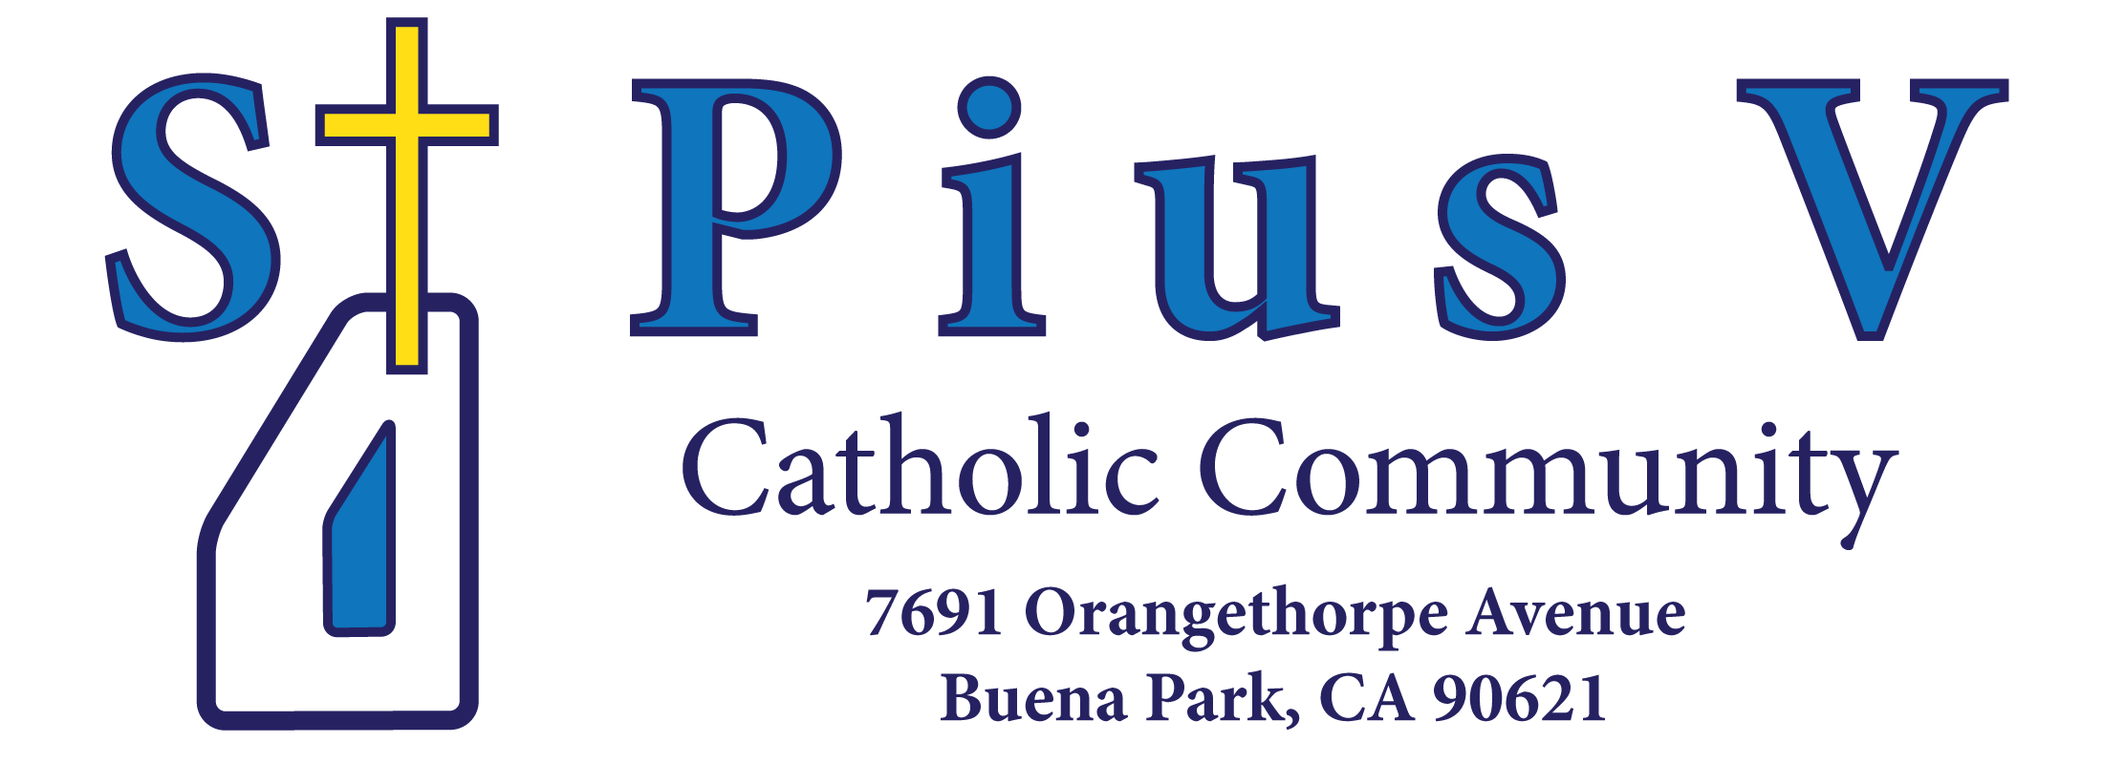
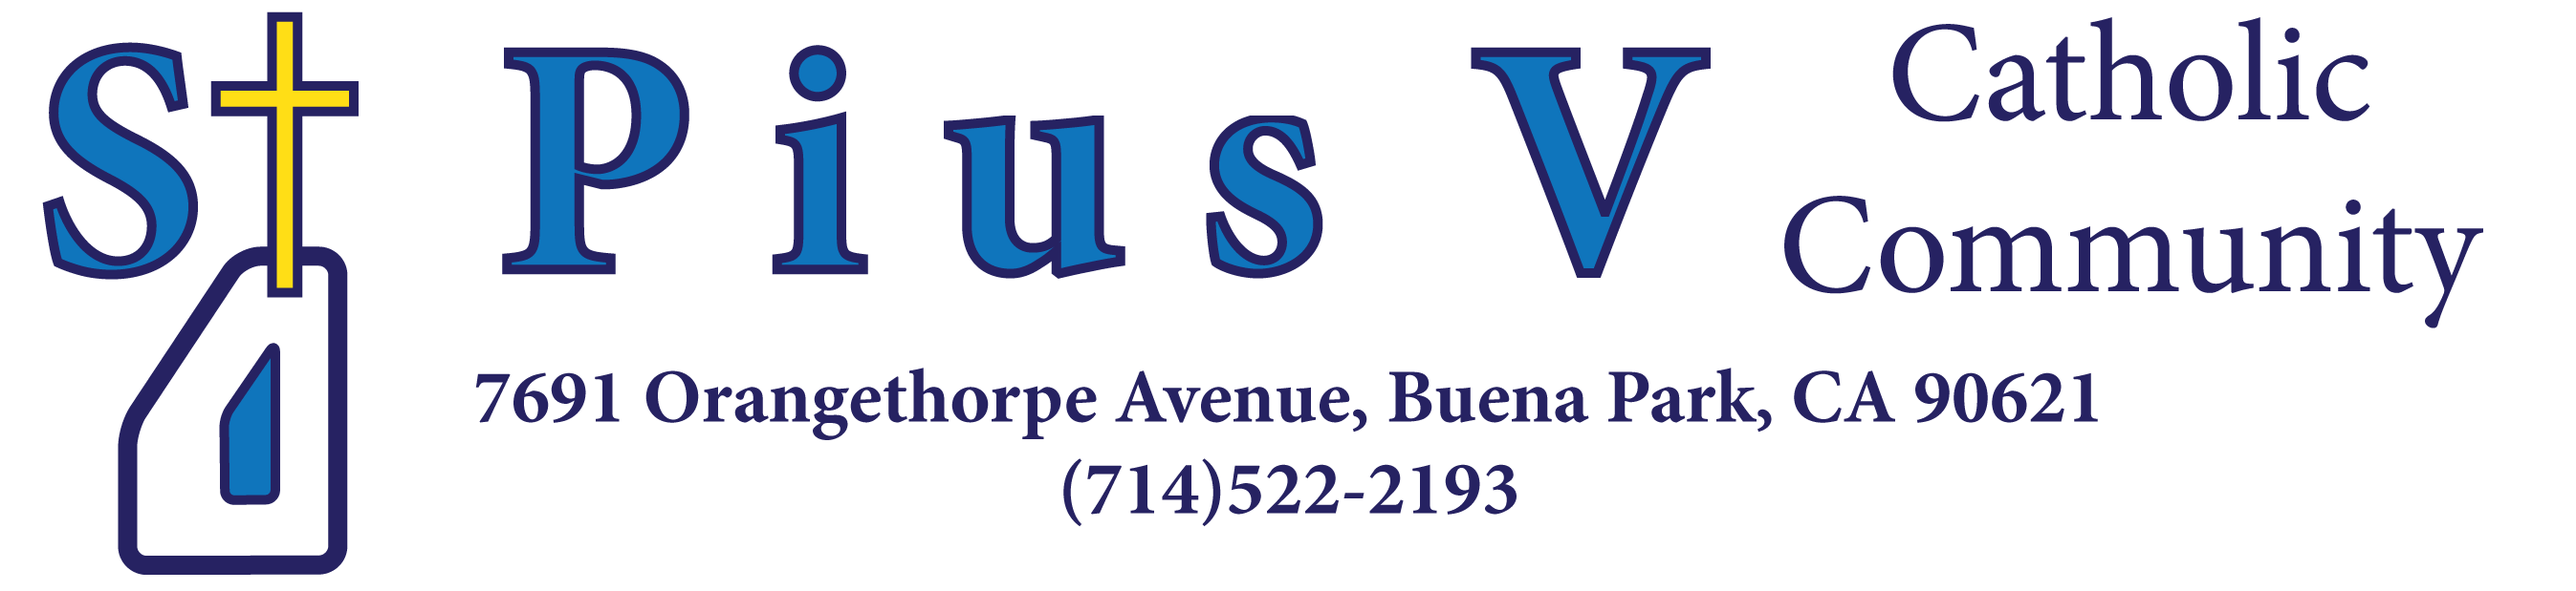
update header, buttons, schedules, and footer

Changed region(s): [[0.0, 0.0, 0.8964, 0.9822], [0.68, 0.0307, 0.9582, 0.5525], [0.4018, 0.7674, 0.8036, 0.9515]]

diff --git a/index.html b/index.html
@@ -7,9 +7,10 @@
     <!-- The above 3 meta tags *must* come first in the head; any other head content must come *after* these tags -->
     <title>St. Pius V Catholic Community</title>
 
+    <script src="https://use.fontawesome.com/f2bff9d3e4.js"></script>
     <!-- Bootstrap -->
     <link href="css/bootstrap.min.css" rel="stylesheet">
-    <link href="https://fonts.googleapis.com/css?family=Gentium+Book+Basic:400,700|Raleway:400,700" rel="stylesheet">
+    <link href="https://fonts.googleapis.com/css?family=Raleway:400,700|Spinnaker" rel="stylesheet">
     <link href="css/style.css" rel="stylesheet">
     <!-- HTML5 shim and Respond.js for IE8 support of HTML5 elements and media queries -->
     <!-- WARNING: Respond.js doesn't work if you view the page via file:// -->
@@ -22,15 +23,19 @@
     <div class="container">
       <div class="row"><!--
       --><div class="col-md-8 col-md-push-2 vcenter text-center">
-          <!--<h1 class="text-center">St. Pius V Catholic Community</h1>
-          <h3 class="text-center">7691 Orangethorpe Avenue, Buena Park, CA 90621</h3>-->
           <img id="header-img" src="img/spv-header.png" alt="spv-header">
         </div><!--
         --><div class="col-md-2 col-md-push-2 text-center vcenter">
-          <h4>(714)522-2193</h4>
+          <div class="input-group">
+            <input
+              type="text"
+              placeholder="Search Our Site..."
+              class="form-control"
+              aria-describedby="basic-addon1">
+          </div>
         </div><!--
         --><div class="col-md-2 col-md-pull-10 text-center vcenter">
-          <a href="#" class="btn btn-primary" role="button">Donate Here</a>
+          <a href="#" class="btn btn-primary btn-donate btn-spv" role="button">Online Giving</a>
         </div><!--
       --></div>
     </div>
@@ -157,8 +162,11 @@
       </div><!-- .row -->
     </div><!-- .container-fluid -->
     <div class="container-fluid">
-      <div class="row">
-        <div class="col-md-10 col-md-offset-1">
+      <div class="row"><!--
+      --><div class="col-md-2 vcenter text-center">
+          <a href="#" class="btn btn-register btn-spv" role="button">Parish<br>Registration</a>
+        </div><!--
+        --><div class="col-md-8 vcenter">
           <div
             id="home-carousel"
             class="carousel slide"
@@ -231,21 +239,35 @@
               <span class="sr-only">Next</span>
             </a>-->
           </div><!-- #home-carousel -->
-        </div><!-- .col-md-10.cold-md-offset-1 -->
+        </div><!-- .col-md-8 --><!--
+        --><div class="col-md-2 vcenter text-center">
+          <a href="#" class="btn btn-psa" role="button">PSA<br>Donations</a>
+        </div><!--.col-md-2-->
       </div><!-- .row -->
       <div class="row">
-        <div class="col-md-6">
+        <div class="col-md-7">
           <div id="updates" class="home-info-box text-center">
             <h3>News & Updates</h3>
           </div>
         </div>
-        <div class="col-md-6">
+        <div class="col-md-5">
           <div id="schedule" class="home-info-box">
-            <h3 class="text-center">Mass Schedule</h3>
+            <h3 class="text-center">Mass, Confession & Office Schedule</h3>
             <table class="table">
               <tr>
+                <td>Sunday Masses</td>
+                <td>
+                  7:45am, 9:15pm - Children's Mass, 10:45am, 12:15pm, 1:45pm en
+                  Espanol, 6:30pm
+                </td>
+              </tr>
+              <tr>
+                <td>Saturday Anticipatory Mass</td>
+                <td>5:15pm & 7:00pm en Espanol</td>
+              </tr>
+              <tr>
                 <td>Mondays</td>
-                <td>8:20am & 5:15pm</td>
+                <td>8:30am & 5:15pm</td>
               </tr>
               <tr>
                 <td>Tuesday-Friday</td>
@@ -256,15 +278,12 @@
                 <td>8:00AM</td>
               </tr>
               <tr>
-                <td>Saturday Anticipatory Mass</td>
-                <td>5:15pm & 7:00pm en Espanol</td>
+                <td>Confessions</td>
+                <td>Saturdays, Thursdays before First Fridays 3:30-4:40pm</td>
               </tr>
               <tr>
-                <td>Sunday Masses</td>
-                <td>
-                  7:45am, 9:15pm - Children's Mass, 10:45am, 12:15pm, 1:45pm en
-                  Espanol, 6:30pm
-                </td>
+                <td>Office Hours</td>
+                <td>Monday-Saturday 9:00am-8:30pm & Sunday 9:00am-3:00pm</td>
               </tr>
             </table>
           </div><!-- #schedule -->
@@ -275,52 +294,47 @@
       <div class="row">
         <footer>
           <div class="col-md-3">
-            <h4 class="text-center">Parish Services</h4>
+            <h4>Parish Services</h4>
             <ul>
               <li><a href="#">Mass Schedule</a></li>
               <li><a href="#">Funerals</a></li>
               <li><a href="#">OC Catholic Cemeteries</a></li>
               <li><a href="#">Contact Us</a></li>
             </ul>
-          </div>
-          <div class="col-md-3">
-            <h4 class="text-center">Resources & Links</h4>
-            <div class="col-md-6">
-              <ul>
-                <li><a href="#">New American Bible</a></li>
-                <li><a href="#">La Biblia</a></li>
-                <li><a href="#">Daily Readings</a></li>
-                <li><a href="#">Evangelio del Dia</a></li>
-                <li><a href="#">Liturgy of the Hours</a></li>
-              </ul>
-            </div>
-            <div class="col-md-6">
-              <ul>
-                <li><a href="#">Saint of the Day</a></li>
-                <li><a href="#">El Santo de Hoy</a></li>
-                <li><a href="#">USCCB: US Bishops</a></li>
-                <li><a href="#">Mental Health Awareness</a></li>
-                <li><a href="#"></a></li>
-              </ul>
-            </div>
-          </div>
-          <div class="col-md-3">
-            <h4 class="text-center">Our Diocese</h4>
+            <h4>Our Diocese</h4>
             <ul>
               <li><a href="#">Diocese of Orange</a></li>
               <li><a href="#">Orange County Catholic</a></li>
               <li><a href="#">Christ Cathedral</a></li>
             </ul>
-          </div>
-          <div class="col-md-3">
-            <h4 class="text-center">Other Helpful Links</h4>
+            <h4>Other Helpful Links</h4>
             <ul>
               <li><a href="#">Eucharistic Adoration</a></li>
               <li><a href="#">Catholic Marriage Resource</a></li>
             </ul>
           </div>
-          <div class="col-xs-12 text-center address-container">
-            <h3 id="address">7691 Orangethorpe Avenue, Buena Park, CA 90621</h3>
+          <div class="col-md-3">
+            <h4>Resources & Links</h4>
+            <ul>
+              <li><a href="#">New American Bible</a></li>
+              <li><a href="#">La Biblia</a></li>
+              <li><a href="#">Daily Readings</a></li>
+              <li><a href="#">Evangelio del Dia</a></li>
+              <li><a href="#">Liturgy of the Hours</a></li>
+              <li><a href="#">Saint of the Day</a></li>
+              <li><a href="#">El Santo de Hoy</a></li>
+              <li><a href="#">USCCB: US Bishops</a></li>
+              <li><a href="#">Mental Health Awareness</a></li>
+              <li><a href="#"></a></li>
+            </ul>
+          </div>
+          <div class="col-md-6">
+            <div class="sm-links">
+              <a href="#"><i class="fa fa-facebook-square fa-4x"></i></a>
+              <a href="#"><i class="fa fa-twitter-square fa-4x"></i></a>
+              <a href="#"><i class="fa fa-envelope-o fa-4x"></i></a>
+            </div>
+            <h3 id="address">7691 Orangethorpe Avenue<br>Buena Park, CA 90621</h3>
             <p>Copyright 2016 Saint Pius V Catholic Community.  All rights reserved.</p>
           </div>
         </footer>

diff --git a/css/style.css b/css/style.css
@@ -1,10 +1,15 @@
 /* Extra small devices (phones, less than 768px) */
 /***** typography *****/
 h1,h2,h3,h4,h5 {
-  font-family: 'Gentium Book Basic',serif;
+  font-family: 'Spinnaker',sans-serif;
   font-weight: 700;
   color: #053B64;
 }
+
+.btn {
+  font-family: 'Spinnaker', sans-serif;
+}
+
 body {
   font-family: 'Raleway',Arial,sans-serif;
   background-image: url(../img/subtle_white_mini_waves/subtle_white_mini_waves.png);
@@ -13,13 +18,50 @@ body {
 }
 
 #header-img {
-  width: 70%;
+  width: 90%;
   height: auto;
+}
+
+.btn-spv {
+  color: #FFF;
+  background: #195887;
+  background: -webkit-linear-gradient(#0F75BC,#195887);
+  background: linear-gradient(#0F75BC,#195887);
+}
+
+.btn-spv:hover, .btn-spv:focus {
+  background: #4C8BBA;
+  color: #FFF;
+}
+
+.btn-donate {
+  font-size: 18px;
+  padding: 10px 40px;
+}
+
+.btn-register, .btn-psa {
+  font-size: 24px;
+}
+
+.btn-psa {
+  background-color: #EB5A4E;
+  box-shadow: 0 0.25em 0 0 #c15b5a,0 4px 9px rgba(0,0,0,0.75);
+  border: none;
+  color: #FFF;
+
+  -webkit-transition: background-color 0.2s;
+  transition: background-color 0.2s;
+}
+
+.btn-psa:hover, .btn-psa:focus {
+  background-color: #F1766B;
+  color: #FFF;
 }
 
 .navbar {
   border: none;
   margin-bottom: 0;
+  font-family: 'Spinnaker', sans-serif;
 }
 
 #navbar-container {
@@ -122,13 +164,13 @@ body {
   color: rgba(0,0,0,.45);
 }
 
+#footer-links-container h4, #footer-links-container ul {
+  margin: 0;
+}
+
 #footer-links-container ul {
   list-style-type: none;
   padding-left: 10px;
-}
-
-#footer-links-container ul>li {
-  margin-bottom: 7px;
 }
 
 #footer-links-container ul>li>a {
@@ -140,6 +182,20 @@ body {
 #footer-links-container ul>li>a:hover {
   color: #FFBF00;
   text-decoration: none;
+  cursor: pointer;
+}
+
+.sm-links .fa {
+  margin-right: 40px;
+  color: #FFF;
+  opacity: 0.6;
+
+  -webkit-transition: color .3s;
+  transition: color .3s;
+}
+
+.sm-links .fa:hover {
+  opacity: 0.9;
   cursor: pointer;
 }
 
